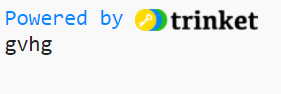
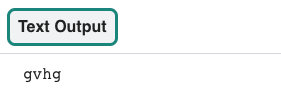
Changes for the Code Editor

Changed region(s): [[0.0, 0.0638, 0.9395, 0.5957], [0.0854, 0.617, 0.2278, 0.7447]]

diff --git a/en/step_2.md b/en/step_2.md
@@ -5,15 +5,51 @@
 To start, you will create a dictionary for your encoded letters. 
 </div>
 <div>
-![A screenshot of the output of the code dictionary that is created in this step.](images/code-dictionary.PNG){:width="600px"}
+![The output of the code dictionary that is created in this step.](images/code-dictionary.PNG){:width="600px"}
 </div>
 </div>
 
 --- task ---
 
-Open the [Codebreaker starter project](https://trinket.io/python/0eb6b467c0){:target="_blank"}. Trinket will open in another browser tab. 
+Open the [Codebreaker starter project](https://editor.raspberrypi.org/en/projects/codebreaker-project-starter){:target="_blank"}. The Raspberry Pi code editor will open in another browser tab.
 
-If you have a Trinket account, you can click on the **Remix button** to save a copy to your `My Trinkets` library.
+If you have a Raspberry Pi account, you can click **Save** to save a copy of the starter code to your library.
+
+If you are not using the code editor in your browser, you will need to download the project files and you may need to install `pygal` before you can import it.
+
+--- collapse ---
+---
+title: Installing pygal
+---
+
+### On Windows
+In the **Command Prompt** type the following and press the <kbd>Enter</kbd> key:
+
+```
+pip install pygal
+```
+
+Wait for the installation to complete and then continue with the project.
+
+### On a Mac
+In the **Terminal** type the following and press the <kbd>Enter</kbd> key:
+
+```
+pip3 install pygal
+```
+
+Wait for the installation to complete and then continue with the project.
+
+### On Linux, including Raspberry Pi OS
+In the **Terminal** type the following and press the <kbd>Enter</kbd> key:
+
+```
+pip install pygal
+```
+
+Wait for the installation to complete and then continue with the project.
+
+--- /collapse ---
 
 --- /task ---
 
@@ -152,10 +188,10 @@ def create_code():
 
 --- task ---
 
-**Test:** Run your code to see if the `code` dictionary displays correctly. You should see a pattern starting with `a` paired with `z` and `b` being paired with `y`.
+**Test:** Run your code to see if the `code` dictionary displays correctly. You should see a pattern starting with the letter `a` paired with `z` and the letter `b` being paired with `y`.
 
 
-![A screenshot of the output of the code dictionary that is created in this step.](images/code-dictionary.PNG){:width="600px"}
+![The output of the code dictionary that is created in this step.](images/code-dictionary.PNG){:width="600px"}
 
 **Debug:** There are no error messages but your code dictionary is not displaying on the screen:
 - Make sure that `print(code)` is indented correctly within the `create_code` function

diff --git a/en/step_1.md b/en/step_1.md
@@ -8,29 +8,34 @@ You will:
 + Create a chart to display frequency data
 
 --- no-print ---
---- task ---
+
 ### Play ▶
+
+--- task ---
+
 <div style="display: flex; flex-wrap: wrap">
 <div style="flex-basis: 175px; flex-grow: 1">  
-This program can **encode** or **decode** a secret message from an attached `.csv` file, or it can **analyse the frequency** of letters in a message. This data will be displayed in a frequency graph, which shows how often each letter appears in the secret message.
+
+This program can **encode** or **decode** a secret message from an attached `.txt` file, or it can **analyse the frequency** of letters in a message. This data will be displayed in a frequency graph, which shows how often each letter appears in the secret message.
 
 Run the program twice to explore how it works: 
-+ First, choose 'c' to decode a message stored in an attached `.csv` file 
-+ Then, run the program a second time and choose 'f' at the prompt; this will display a letter frequency graph for the message
++ First, choose 'c' to decode a message stored in an attached `.txt` file 
++ Then, run the program a second time and choose 'f' at the prompt; this will display a letter frequency graph for the message.
 
+</div>
+
+<iframe src="https://editor.raspberrypi.org/en/embed/viewer/codebreaker-project-example" width="600" height="600" frameborder="0" marginwidth="0" marginheight="0" allowfullscreen>
+</iframe>
 
 </div>
-<div class="trinket">
-<iframe src="https://trinket.io/embed/python/1ebc46d7ff?outputOnly=true&runOption=run" width="600" height="600" frameborder="0" marginwidth="0" marginheight="0" allowfullscreen></iframe>
-</div>
-</div>
+
 --- /task ---
+
 --- /no-print ---
 
 <p style="border-left: solid; border-width:10px; border-color: #0faeb0; background-color: aliceblue; padding: 10px;">
 The <span style="color: #0faeb0">Atbash</span> cypher is one of the world's oldest known cyphers (a cypher is a secret or disguised way of writing). Originally developed in the <span style="color: #0faeb0">Hebrew</span> language, it takes the alphabet and matches it to its reverse order to create a secret message. The name derives from the first, last, second, and second-last Hebrew letters: <span style="color: #0faeb0">Aleph, Taw, Bet,</span> and <span style="color: #0faeb0">Shin.</span></p>
 
-
-
-
-
+--- print-only ---
+![Completed project.](images/frequency-analysis.PNG)
+--- /print-only ---

diff --git a/en/step_3.md b/en/step_3.md
@@ -5,7 +5,7 @@
 In this step, you will create a function that can take your text, flip it and reverse it with your atbash cypher list, and return it as an encoded message. 
 </div>
 <div>
-![A screenshot of the output of the code created in this step. An encoded version of a secret message is displayed.](images/test-encoded.PNG){:width="300px"}
+![The output of the code created in this step. An encoded version of a secret message is displayed.](images/test-encoded.PNG){:width="300px"}
 </div>
 </div>
 
@@ -42,8 +42,8 @@ Find the comment that says `# Encode/decode a piece of text — atbash is symmet
 language: python
 filename: main.py - atbash()
 line_numbers: true
-line_number_start: 26 
-line_highlights: 27
+line_number_start: 27 
+line_highlights: 28
 ---
 # Encode/decode a piece of text — atbash is symmetrical
 def atbash(text):
@@ -62,7 +62,7 @@ First your function needs to convert the `text` to lower case. A new **variable*
 
 --- task ---
 
- Beneath the line of code where you have defined the `atbash()` function, type: 
+Beneath the line of code where you have defined the `atbash()` function, type: 
 
 --- code ---
 ---
@@ -94,8 +94,8 @@ Leave a blank line under the last code you entered (make sure you keep the inden
 language: python
 filename: main.py - atbash()
 line_numbers: true
-line_number_start: 28
-line_highlights: 33-37
+line_number_start: 27
+line_highlights: 32-36
 ---
 # Encode/decode a piece of text — atbash is symmetrical
 def atbash(text):
@@ -141,7 +141,7 @@ def main():
 
 **Test:** Run your code to see if the test message displays correctly. You should see the console output `gvhg`.
 
-![A screenshot of the output of the encoded text that is created in this step.](images/test-encoded.PNG){:width="200px"}
+![The output of the encoded text that is created in this step.](images/test-encoded.PNG){:width="200px"}
 
 **Debug:** If you see a message about an indentation error:
 - Check that you have indented all of your code correctly
@@ -164,7 +164,7 @@ line_highlights: 51
 # Start up
 def main():
   create_code()
-  #print(atbash('Test'))
+  # print(atbash('Test'))
 
 --- /code ---
 
